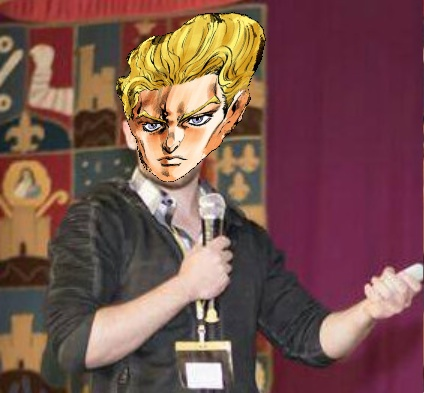
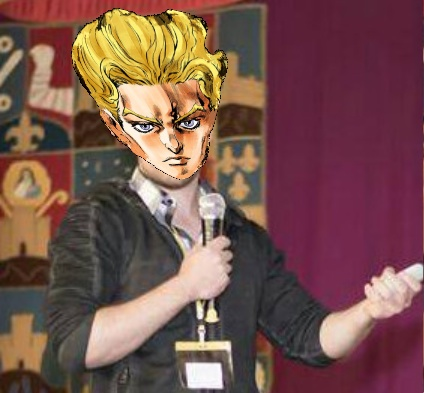
...

Changed region(s): [[0.1533, 0.0, 0.6439, 0.458]]

diff --git a/comic_face.py b/comic_face.py
@@ -1,0 +1,13 @@
+import cv2 as cv
+from mtcnn import MTCNN
+import os
+import numpy as np
+os.environ['CUDA_DEVICE_ORDER'] = "PCI_BUS_ID"
+os.environ['CUDA_VISIBLE_DEVICES'] = "-1"
+
+class ComicFace():
+    def __init__(self, filename1, filename2,
+                 path=None):
+        if path is not None:
+            filename1 = path
+        im2 = cv.imread(filename2)

diff --git a/demo.py b/demo.py
@@ -28,7 +28,7 @@ def compare_faces(filename1, filename2):
     return im1, cv.cvtColor(im2, cv.COLOR_BGR2RGB), res1, res2
 
 
-im1, im2, real_pts, comic_pts = compare_faces("img.PNG", "ki.png")
+im1, im2, real_pts, comic_pts = compare_faces("img.PNG", "ki2.png")
 height, width, channels = im1.shape
 print(np.array(list(real_pts.values())))
 # print(real_pts, comic_pts)
